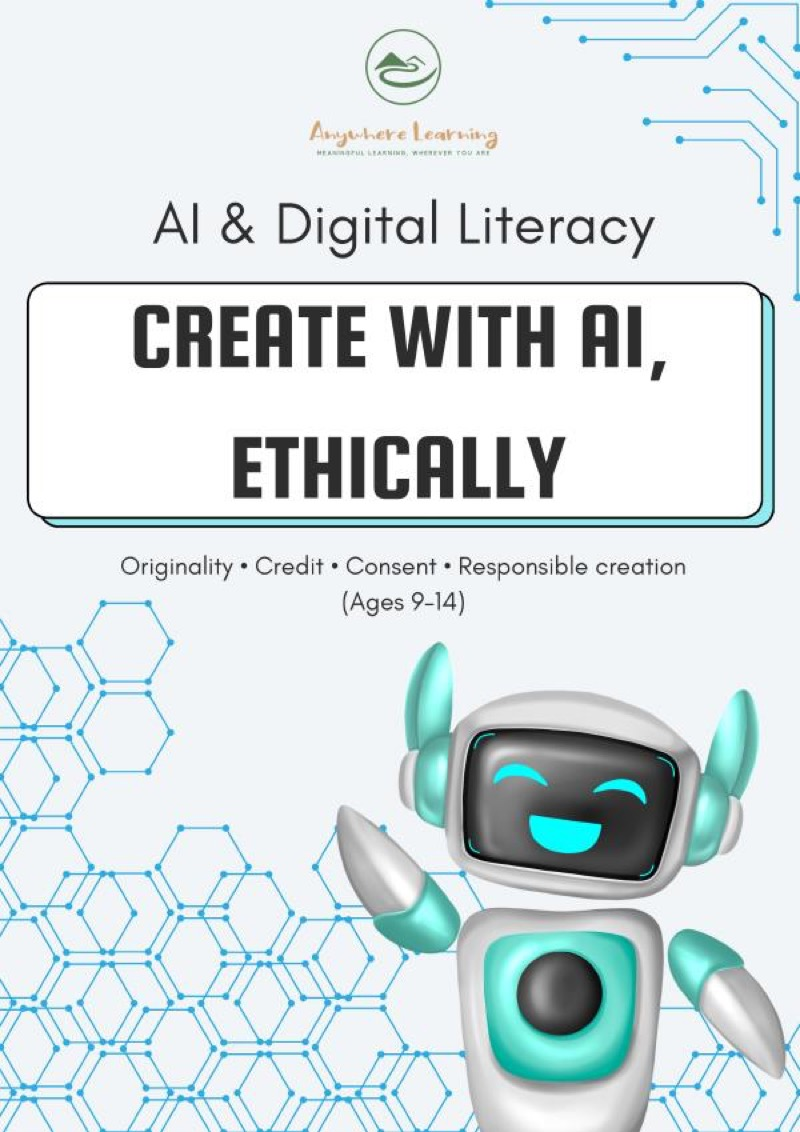
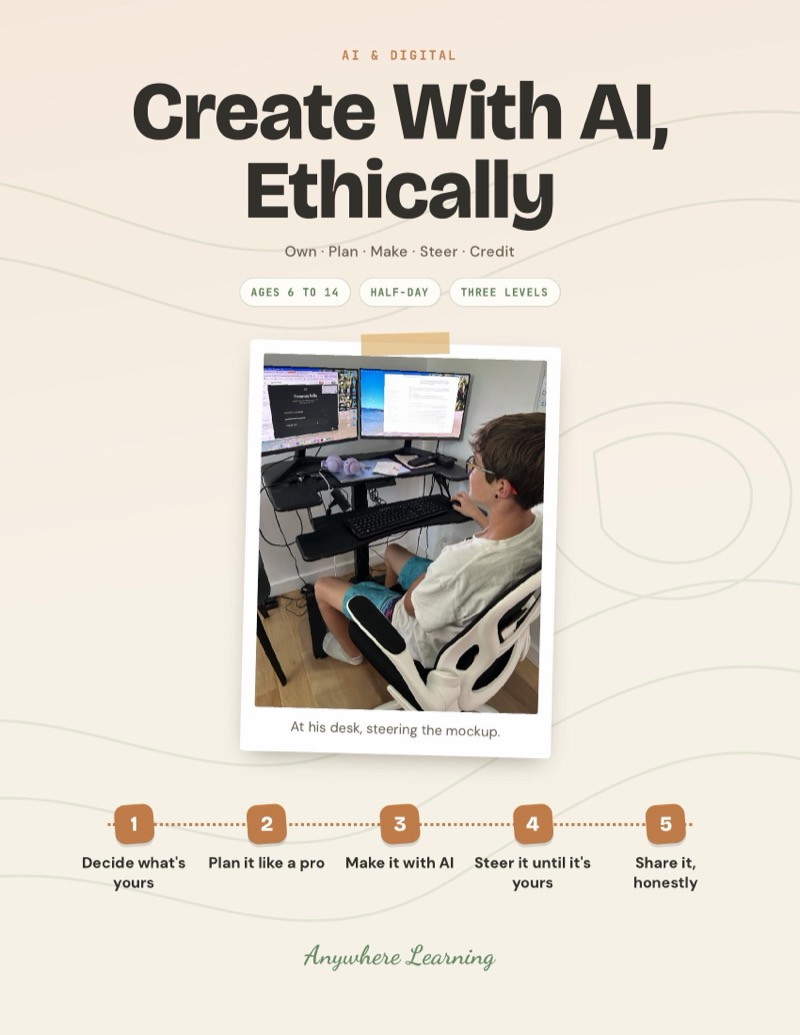
Create With AI, Ethically: redesigned guide, son's web design business story, desk photo, ages 6-14

diff --git a/scripts/seed.ts b/scripts/seed.ts
@@ -65,7 +65,7 @@ async function seed() {
     { name: 'Algorithm Awareness', slug: 'algorithm-awareness', description: 'Understand how algorithms shape what we see online.', shortDescription: 'Algorithm awareness.', priceCents: 599, compareAtPriceCents: null, stripePriceId: 'price_1TFcTfAMzOBftCntwgbhXS2c', blobUrl: '', imageUrl: '/products/algorithm-awareness.jpg', category: 'ai-literacy', isBundle: false, bundleProductIds: null, activityCount: null, ageRange: 'Ages 9\u201314', sortOrder: 71, active: true },
     { name: 'Bias & Fairness Lab', slug: 'bias-fairness-lab', description: 'Explore bias in AI systems.', shortDescription: 'AI bias and fairness.', priceCents: 599, compareAtPriceCents: null, stripePriceId: 'price_1TFcTgAMzOBftCnty4weOSMp', blobUrl: '', imageUrl: '/products/bias-fairness-lab.jpg', category: 'ai-literacy', isBundle: false, bundleProductIds: null, activityCount: null, ageRange: 'Ages 9\u201314', sortOrder: 72, active: true },
     { name: 'Build Your Own AI Helper', slug: 'build-ai-helper', description: 'Design and prototype an AI tool.', shortDescription: 'Design an AI helper.', priceCents: 599, compareAtPriceCents: null, stripePriceId: 'price_1TFcTgAMzOBftCnt2rlB7hz4', blobUrl: '', imageUrl: '/products/build-ai-helper.jpg', category: 'ai-literacy', isBundle: false, bundleProductIds: null, activityCount: null, ageRange: 'Ages 9\u201314', sortOrder: 73, active: true },
-    { name: 'Create with AI, Ethically', slug: 'create-with-ai', description: 'Use AI as a creative partner ethically.', shortDescription: 'Ethical AI creativity.', priceCents: 599, compareAtPriceCents: null, stripePriceId: 'price_1TFcThAMzOBftCnt9kE7d4xI', blobUrl: '', imageUrl: '/products/create-with-ai.jpg', category: 'ai-literacy', isBundle: false, bundleProductIds: null, activityCount: null, ageRange: 'Ages 9\u201314', sortOrder: 74, active: true },
+    { name: 'Create With AI, Ethically', slug: 'create-with-ai', description: 'Your kid makes something real with AI, like a website, a story or a poster, and stays the one in charge. They decide what it is for and who it is for, do the parts that need them, let AI help with the rest, steer it until it matches what they had in mind and are honest about what AI made.', shortDescription: 'Creative AI for kids ages 6-14: plan a real project, let AI help with drafts and code, steer it until it is theirs and say honestly how it was made.', priceCents: 599, compareAtPriceCents: null, stripePriceId: 'price_1TFcThAMzOBftCnt9kE7d4xI', blobUrl: '', imageUrl: '/products/create-with-ai.jpg', category: 'ai-literacy', isBundle: false, bundleProductIds: null, activityCount: null, ageRange: 'Ages 9\u201314', sortOrder: 74, active: true },
     { name: 'Deepfake & Manipulation Spotter', slug: 'deepfake-spotter', description: 'Spot manipulated media and deepfakes.', shortDescription: 'Deepfake detection skills.', priceCents: 599, compareAtPriceCents: null, stripePriceId: 'price_1TFcThAMzOBftCntXZfm3eqs', blobUrl: '', imageUrl: '/products/deepfake-spotter.jpg', category: 'ai-literacy', isBundle: false, bundleProductIds: null, activityCount: null, ageRange: 'Ages 9\u201314', sortOrder: 75, active: false },
     { name: 'Hallucination Detective', slug: 'hallucination-detective', description: 'Your kid learns that AI can sound sure and still be wrong. They ask two or three AI tools the exact same question, compare the answers, spot where they disagree or make things up, check against real sources and decide on an answer of their own they can trust.', shortDescription: 'AI literacy for kids ages 6-14: ask two or three AI tools the same question, compare the answers, check real sources and catch the AI when it bluffs.', priceCents: 599, compareAtPriceCents: null, stripePriceId: 'price_1TFcThAMzOBftCnthpXo1GG3', blobUrl: '', imageUrl: '/products/hallucination-detective.jpg', category: 'ai-literacy', isBundle: false, bundleProductIds: null, activityCount: null, ageRange: 'Ages 9\u201314', sortOrder: 76, active: true },
     { name: 'Healthy Tech & AI Boundaries', slug: 'healthy-tech-boundaries', description: 'Build healthy boundaries with technology.', shortDescription: 'Healthy tech boundaries.', priceCents: 599, compareAtPriceCents: null, stripePriceId: 'price_1TFcTiAMzOBftCntLgtp68hD', blobUrl: '', imageUrl: '/products/healthy-tech-boundaries.jpg', category: 'ai-literacy', isBundle: false, bundleProductIds: null, activityCount: null, ageRange: 'Ages 9\u201314', sortOrder: 77, active: true },

diff --git a/lib/product-descriptions.ts b/lib/product-descriptions.ts
@@ -1368,23 +1368,24 @@ export const productDescriptions: Record<string, ProductDescription> = {
   },
   'create-with-ai': {
     opening:
-      'Explore creative AI tools responsibly. Kids learn to use AI for writing, art, and brainstorming while understanding copyright, attribution, and the difference between using AI as a tool vs letting it do the work. Creativity meets responsibility.',
+      'Your kid makes something real with AI, like a website, a story or a poster, and stays the one in charge. They decide what it is for and who it is for, do the parts that need them, let AI help with the rest, steer it until it matches what they had in mind and are honest about what AI made.',
     whatsIncluded: [
-      'Creative AI tool exploration and practice',
-      'AI for writing, art, and brainstorming',
-      'Copyright, attribution, and ownership understanding',
-      'Tool vs replacement: knowing the difference',
-      'Ethical creation guidelines and reflection',
+      'Five steps, from deciding what is theirs to sharing it honestly',
+      'Who does what, Brief, Ask AI for, Steer it and Credit it cards',
+      'A worked example: a teen web designer who briefs, steers and writes to clients himself',
+      'Clear lines: no copying real artists, no real names or photos in prompts',
+      'Three levels per step, from ages 6 to 14',
     ],
-    skillTags: ['AI Literacy', 'Creativity', 'Ethics', 'Digital Citizenship', 'Art'],
+    skillTags: ['AI Literacy', 'Creativity', 'Ethics', 'Communication', 'Design Thinking'],
     insideTheLearning: {
       lead:
-        'Your child uses AI to make something, then has to be straight about how they made it. Where the tool stops and their own work starts is the real question, and it is one plenty of adults get wrong. They practise attributing honestly and deciding when using it is fine and when it is not.',
+        'AI can make a lot, fast. What makes a project theirs is the parts only they can do: knowing who it is for, deciding what it should be, steering it until it is right and being honest about what AI made. Your kid practises all of it on a real project for a real person.',
       skills: [
-        { skill: 'Creative Thinking', where: 'Making something genuinely original with the tool rather than letting it decide' },
-        { skill: 'Digital Citizenship', where: 'Understanding consent, attribution and who owns what was made' },
-        { skill: 'Decision-Making', where: 'Judging when using AI is appropriate and when it is not' },
-        { skill: 'Communication', where: 'Being clear and honest about their process and their sources' },
+        { skill: 'AI Literacy', where: 'Knowing what AI is good at and what it is not' },
+        { skill: 'Creativity', where: 'Keeping the idea and the final choices their own' },
+        { skill: 'Ethics', where: 'Crediting AI and never copying real artists or people' },
+        { skill: 'Communication', where: 'Writing a brief and talking with the person it is for' },
+        { skill: 'Design Thinking', where: 'Shaping the result around what the audience needs' },
       ],
     },
     format: 'Project Guide',

diff --git a/lib/skills.ts b/lib/skills.ts
@@ -55,7 +55,7 @@ export const productSkills: Record<string, ProductSkills> = {
   "community-impact": { canonical: ["Citizenship","Listening","Planning","Leadership","Follow-Through"], families: ["communication-and-writing","critical-thinking-and-reasoning","planning-and-self-management"] },
   "community-service-business": { canonical: ["Communication","Observation","Planning","Problem-Solving","Resilience"], families: ["communication-and-writing","critical-thinking-and-reasoning","empathy-and-people","nature-and-science","planning-and-self-management"] },
   "community-tour-guide": { canonical: ["Writing","Presentation","Research","Communication","Community"], families: ["communication-and-writing","critical-thinking-and-reasoning","empathy-and-people","planning-and-self-management"] },
-  "create-with-ai": { canonical: ["Communication","Creative Thinking","Decision-Making","Digital Citizenship"], families: ["communication-and-writing","creativity-and-making","critical-thinking-and-reasoning","tech-and-digital"] },
+  "create-with-ai": { canonical: ["AI Literacy","Creative Thinking","Ethics","Communication"], families: ["tech-and-digital","creativity-and-making","communication-and-writing"] },
   "creature-habitat": { canonical: ["Biology","Art","Engineering","Scientific Thinking","Design"], families: ["communication-and-writing","creativity-and-making","critical-thinking-and-reasoning","nature-and-science"] },
   "cultural-celebration-journal": { canonical: ["Cultural Awareness","Observation","Writing","Geography","Communication"], families: ["communication-and-writing","critical-thinking-and-reasoning","empathy-and-people","world-and-geography"] },
   "currency-market-math": { canonical: ["Critical Thinking","Financial Literacy","Math","Problem-Solving"], families: ["critical-thinking-and-reasoning","entrepreneurship-and-money","math-and-money"] },

diff --git a/lib/fallback-products.ts b/lib/fallback-products.ts
@@ -904,20 +904,20 @@ export const fallbackProducts: FallbackProduct[] = [
     name: "Create With AI, Ethically",
     slug: "create-with-ai",
     description:
-      "Explore creative AI tools responsibly. Kids learn to use AI for writing, art, and brainstorming while understanding copyright, attribution, and the difference between using AI as a tool vs letting it do the thinking. Creativity enhanced by technology, guided by ethics.",
+      "Your kid makes something real with AI, like a website, a story or a poster, and stays the one in charge. They decide what it is for and who it is for, do the parts that need them, let AI help with the rest, steer it until it matches what they had in mind and are honest about what AI made.",
     shortDescription:
-      "AI literacy for kids ages 9-14: use AI for creative projects responsibly. Copyright, attribution, and ethical creation.",
+      "Creative AI for kids ages 6-14: plan a real project, let AI help with drafts and code, steer it until it is theirs and say honestly how it was made.",
     priceCents: 599,
     compareAtPriceCents: null,
     stripePriceId: "price_1TLrq8AkIBECpwGmWnjiv4W3",
     blobUrl: "",
-    imageUrl: "/products/create-with-ai.jpg",
-    previewFile: "Preview AI + Digital Literacy - CREATE WITH AI, ETHICALLY.pdf",
+    imageUrl: "/products/create-with-ai.jpg?v=2",
+    previewFile: "Preview AI & Digital Literacy - CREATE WITH AI, ETHICALLY v3.pdf",
     category: "ai-literacy",
     isBundle: false,
     bundleProductIds: null,
     activityCount: null,
-    ageRange: "Ages 9–14",
+    ageRange: "Ages 6–14",
     sortOrder: 74,
     active: true,
     createdAt: new Date("2025-03-01"),

diff --git a/scripts/create-stripe-products.ts b/scripts/create-stripe-products.ts
@@ -52,7 +52,7 @@ const catalog = [
   { slug: 'algorithm-awareness', name: 'Algorithm Awareness', priceCents: 599, description: 'Why Am I Seeing This? Understand how algorithms shape what we see.' },
   { slug: 'bias-fairness-lab', name: 'Bias & Fairness Lab', priceCents: 599, description: 'Explore bias in AI systems and why fairness matters.' },
   { slug: 'build-ai-helper', name: 'Build Your Own AI Helper', priceCents: 599, description: 'Design and prototype an AI tool that solves a real problem.' },
-  { slug: 'create-with-ai', name: 'Create with AI, Ethically', priceCents: 599, description: 'Use AI as a creative partner while understanding the ethics.' },
+  { slug: 'create-with-ai', name: 'Create With AI, Ethically', priceCents: 599, description: 'Creative AI for kids ages 6-14: plan a real project, let AI help with drafts and code, steer it until it is theirs and say honestly how it was made.' },
   { slug: 'deepfake-spotter', name: 'Deepfake & Manipulation Spotter', priceCents: 599, description: 'Spot manipulated media and understand deepfake technology.' },
   { slug: 'hallucination-detective', name: 'Hallucination Detective', priceCents: 599, description: 'AI literacy for kids ages 6-14: ask two or three AI tools the same question, compare the answers, check real sources and catch the AI when it bluffs.' },
   { slug: 'healthy-tech-boundaries', name: 'Healthy Tech & AI Boundaries', priceCents: 599, description: 'Build healthy boundaries with technology and AI tools.' },

diff --git a/lib/activity-blob-urls.ts b/lib/activity-blob-urls.ts
@@ -32,7 +32,7 @@ export const ACTIVITY_BLOB_URLS: Record<string, string> = {
   "community-tour-guide": "https://xkj3tzlgu6ylgllk.public.blob.vercel-storage.com/Communication%20%26%20Writing%20-%20Community%20Tour%20Guide%20v9.pdf",
   "complaint-to-product": "https://xkj3tzlgu6ylgllk.public.blob.vercel-storage.com/Entrepreneurship%20-%20Complaint%20to%20Product%20v8.pdf",
   "conflict-fix": "https://xkj3tzlgu6ylgllk.public.blob.vercel-storage.com/Emotional%20%26%20Social%20Skills%20-%20The%20Conflict%20Fix%20v4.pdf",
-  "create-with-ai": "https://xkj3tzlgu6ylgllk.public.blob.vercel-storage.com/AI%20%26%20Digital%20Literacy%20-%20CREATE%20WITH%20AI%2C%20ETHICALLY%20v2.pdf",
+  "create-with-ai": "https://xkj3tzlgu6ylgllk.public.blob.vercel-storage.com/AI%20%26%20Digital%20Literacy%20-%20CREATE%20WITH%20AI%2C%20ETHICALLY%20v3.pdf",
   "creature-habitat": "https://xkj3tzlgu6ylgllk.public.blob.vercel-storage.com/Creativity%20%26%20Maker%20Create%20a%20Creature%20and%20Build%20Its%20Habitat%20v6.pdf",
   "cultural-celebration-journal": "https://xkj3tzlgu6ylgllk.public.blob.vercel-storage.com/Worldschooling%20-%20Cultural%20Celebration%20Journal%20v5.pdf",
   "currency-market-math": "https://xkj3tzlgu6ylgllk.public.blob.vercel-storage.com/Worldschooling%20-%20Currency%20%26%20Market%20Math%20v2.pdf",
